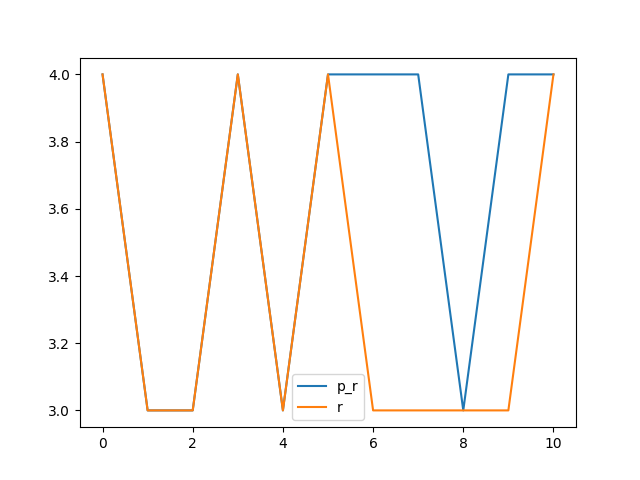
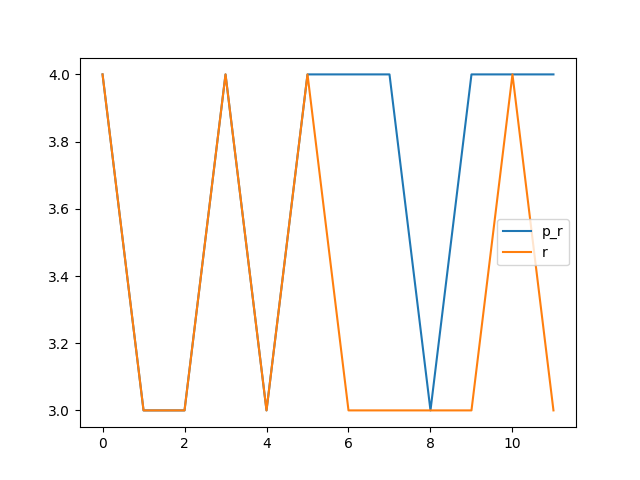
0x000B

diff --git a/benchmark.md b/benchmark.md
@@ -22,9 +22,11 @@ Synthesising 0x0009 pexact:208 r=4 exact:224 r=3
 
 Synthesising 0x000A pexact:182 r=4 exact:352 r=4
 
+Synthesising 0x000B pexact:182 r=4 exact:216 r=3
+
 ![image1](benchmark_r.png?)
 
 ![image2](benchmark_s.png?)
 
- avg_p_s=168.0 avg_s=226.91 avg_pr=3.64 avg_r=3.36
+ avg_p_s=169.17 avg_s=226.0 avg_pr=3.67 avg_r=3.33
 
